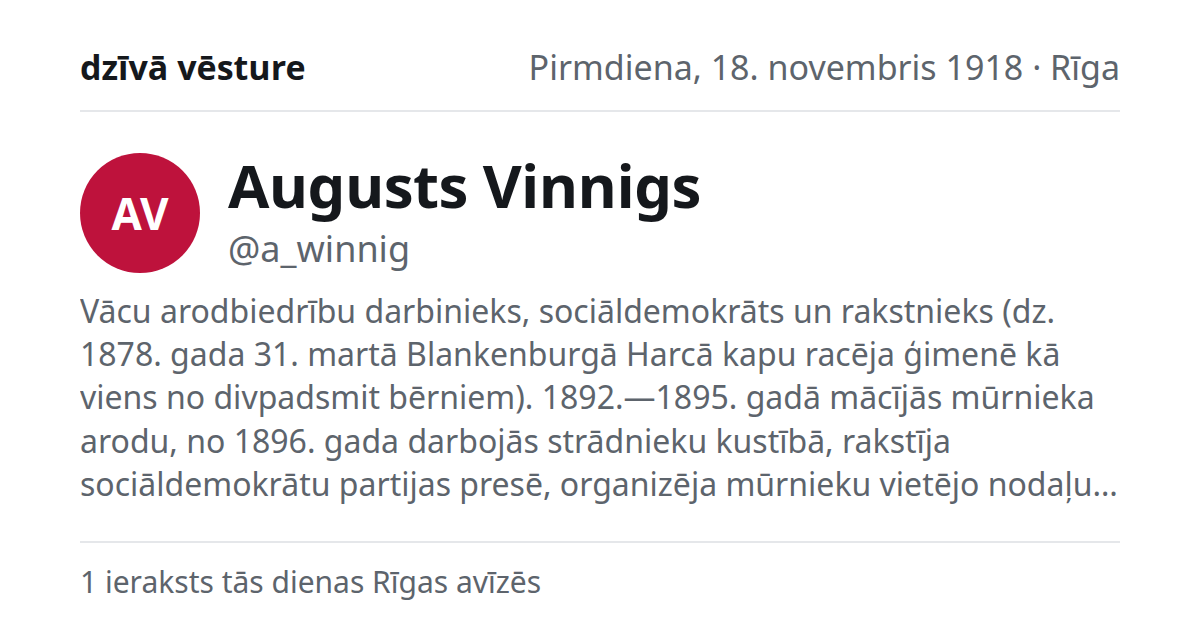
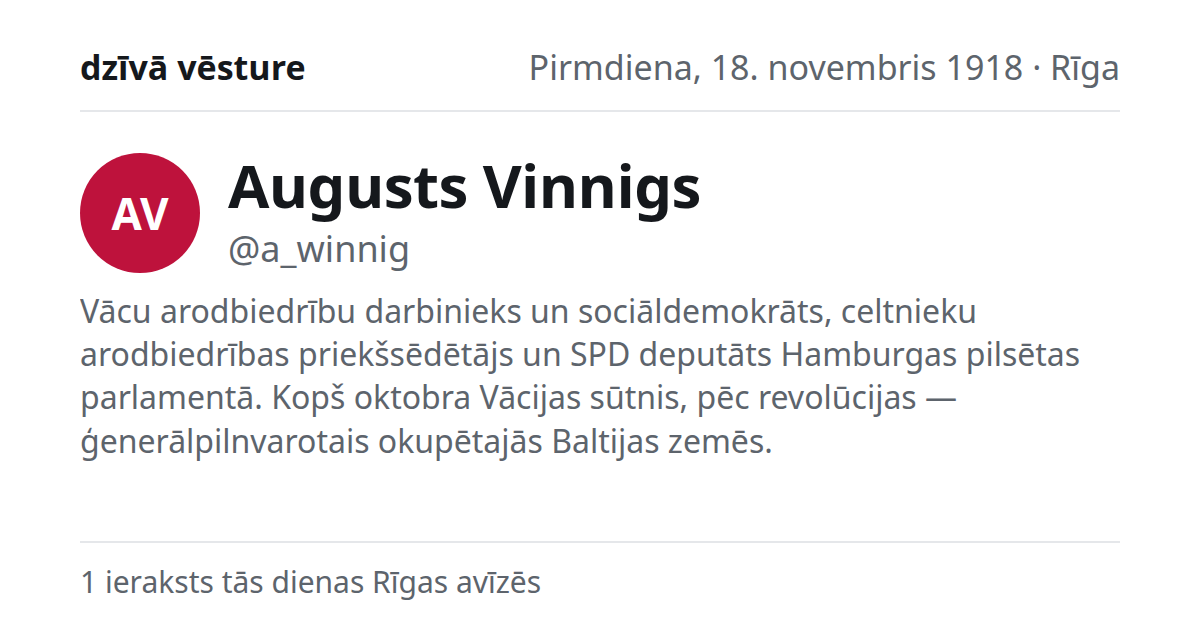
profiles: render the short bio, not the 750-char identity record

Changed region(s): [[0.0617, 0.5429, 0.925, 0.7238], [0.0617, 0.754, 0.925, 0.8143], [0.4317, 0.4524, 0.8942, 0.5127]]

diff --git a/tests/run.ts b/tests/run.ts
@@ -157,14 +157,20 @@ check('mentionsOf: only the posts that name the handle, in seq order', named.map
 // | identity: 5                                       | throws "string or null"       |
 // | identity: {}  (hostile: object where text belongs)| throws "string or null"       |
 const throws = (fn: () => unknown, msg: string) => { try { fn(); return false; } catch (e) { return String(e).includes(msg); } };
-const good = readIdentities({ accounts: [{ handle: '@a', identity: 'X' }, { handle: '@b', identity: null }] }, ['@a', '@b']);
+const good = readIdentities({ accounts: [{ handle: '@a', identity: 'X', bio: 'b' }, { handle: '@b', identity: null, bio: null }] }, ['@a', '@b']);
 check('readIdentities: the array shape reads to a map of every handle', good.size === 2 && good.get('@a')!.identity === 'X' && good.get('@b')!.identity === null);
 check('readIdentities: a handle-keyed map fails loudly', throws(() => readIdentities({ '@a': { identity: 'X' } }, ['@a']), 'an array, not a map'));
-check('readIdentities: a handle missing from the file fails loudly', throws(() => readIdentities({ accounts: [{ handle: '@a', identity: 'X' }] }, ['@a', '@b']), 'no entry for @b'));
-check('readIdentities: a handle unknown to the data fails loudly', throws(() => readIdentities({ accounts: [{ handle: '@a', identity: 'X' }, { handle: '@zz', identity: 'X' }] }, ['@a']), 'not an account'));
-check('readIdentities: a duplicate handle fails loudly', throws(() => readIdentities({ accounts: [{ handle: '@a', identity: 'X' }, { handle: '@a', identity: 'Y' }] }, ['@a']), 'appears twice'));
-check('readIdentities: a numeric identity fails loudly', throws(() => readIdentities({ accounts: [{ handle: '@a', identity: 5 }] }, ['@a']), 'string or null'));
-check('readIdentities: an object identity fails loudly', throws(() => readIdentities({ accounts: [{ handle: '@a', identity: {} }] }, ['@a']), 'string or null'));
+check('readIdentities: a handle missing from the file fails loudly', throws(() => readIdentities({ accounts: [{ handle: '@a', identity: 'X', bio: 'b' }] }, ['@a', '@b']), 'no entry for @b'));
+check('readIdentities: a handle unknown to the data fails loudly', throws(() => readIdentities({ accounts: [{ handle: '@a', identity: 'X', bio: 'b' }, { handle: '@zz', identity: 'X', bio: 'b' }] }, ['@a']), 'not an account'));
+check('readIdentities: a duplicate handle fails loudly', throws(() => readIdentities({ accounts: [{ handle: '@a', identity: 'X', bio: 'b' }, { handle: '@a', identity: 'Y', bio: 'b' }] }, ['@a']), 'appears twice'));
+// | bio: 5                                            | throws "string or null"       |
+// | bio set, identity null                            | throws "bio without identity" |
+// | bio of 281 chars                                  | throws "over 280"             |
+check('readIdentities: a numeric bio fails loudly', throws(() => readIdentities({ accounts: [{ handle: '@a', identity: 'X', bio: 5 }] }, ['@a']), 'string or null'));
+check('readIdentities: a bio without an identity fails loudly', throws(() => readIdentities({ accounts: [{ handle: '@a', identity: null, bio: 'b' }] }, ['@a']), 'bio without identity'));
+check('readIdentities: an over-long bio fails loudly', throws(() => readIdentities({ accounts: [{ handle: '@a', identity: 'X', bio: 'x'.repeat(281) }] }, ['@a']), 'over 280'));
+check('readIdentities: a numeric identity fails loudly', throws(() => readIdentities({ accounts: [{ handle: '@a', identity: 5, bio: null }] }, ['@a']), 'string or null'));
+check('readIdentities: an object identity fails loudly', throws(() => readIdentities({ accounts: [{ handle: '@a', identity: {}, bio: null }] }, ['@a']), 'string or null'));
 
 // --- descriptionLines: the identity alone; null is two different things ------
 // | handle           | identity      | expected       |
@@ -172,11 +178,13 @@ check('readIdentities: an object identity fails loudly', throws(() => readIdenti
 // | @f_brodermanis   | null          | []             |
 // | @zemes_sargi     | null          | [what, bio]    |
 // | @x (any other)   | null          | []             |
+// | bio set          | [bio]  — the long `identity` never reaches the page |
 const acc: Account = { name: 'X', kind: 'org', what: 'W', bio: 'B' };
-check('descriptionLines: the identity alone, never what/bio beside it', JSON.stringify(descriptionLines(acc, { handle: '@x', identity: 'Laikraksts' })) === '["Laikraksts"]');
-check('descriptionLines: @f_brodermanis null → no description at all', descriptionLines(acc, { handle: '@f_brodermanis', identity: null }).length === 0);
-check('descriptionLines: @zemes_sargi null → the paper-sourced what and bio stand', JSON.stringify(descriptionLines(acc, { handle: '@zemes_sargi', identity: null })) === '["W","B"]');
-check('descriptionLines: any other null → nothing', descriptionLines(acc, { handle: '@x', identity: null }).length === 0);
+check('descriptionLines: the bio alone — never the long identity, never what/bio beside it',
+  JSON.stringify(descriptionLines(acc, { handle: '@x', identity: 'A 700-character encyclopedia entry…', bio: 'Laikraksts' })) === '["Laikraksts"]');
+check('descriptionLines: @f_brodermanis null → no description at all', descriptionLines(acc, { handle: '@f_brodermanis', identity: null, bio: null }).length === 0);
+check('descriptionLines: @zemes_sargi null → the paper-sourced what and bio stand', JSON.stringify(descriptionLines(acc, { handle: '@zemes_sargi', identity: null, bio: null })) === '["W","B"]');
+check('descriptionLines: any other null → nothing', descriptionLines(acc, { handle: '@x', identity: null, bio: null }).length === 0);
 
 // --- lead: the first sentence for a preview, no full stop ---------------------
 // | input                                                   | expected                               |

diff --git a/src/lib/feed.ts b/src/lib/feed.ts
@@ -226,7 +226,7 @@ export const viaText = (via: string) => via.replace(/^Atstāstīts: /, '');
 // handle or a duplicate throws, so the build fails instead of a profile quietly
 // losing its bio because a key moved. Everything else in the file (identity_en,
 // sources, note, confidence) is for us, never for the page.
-export type Identity = { handle: string; identity: string | null };
+export type Identity = { handle: string; identity: string | null; bio: string | null };
 export function readIdentities(raw: unknown, handles: string[]): Map<string, Identity> {
   const file = 'rereading/identities.json';
   if (typeof raw !== 'object' || raw === null || !Array.isArray((raw as { accounts?: unknown }).accounts)) {
@@ -237,9 +237,12 @@ export function readIdentities(raw: unknown, handles: string[]): Map<string, Ide
     const entry = e as Partial<Identity> | null;
     if (!entry || typeof entry.handle !== 'string') throw new Error(`${file}: an account entry has no string handle`);
     if (!(typeof entry.identity === 'string' || entry.identity === null)) throw new Error(`${file}: ${entry.handle}: identity must be a string or null`);
+    if (!(typeof entry.bio === 'string' || entry.bio === null)) throw new Error(`${file}: ${entry.handle}: bio must be a string or null`);
+    if (entry.identity === null && entry.bio !== null) throw new Error(`${file}: ${entry.handle}: bio without identity`);
+    if (typeof entry.bio === 'string' && entry.bio.length > 280) throw new Error(`${file}: ${entry.handle}: bio is ${entry.bio.length} chars, over 280`);
     if (!handles.includes(entry.handle)) throw new Error(`${file}: ${entry.handle} is not an account in the data`);
     if (out.has(entry.handle)) throw new Error(`${file}: ${entry.handle} appears twice`);
-    out.set(entry.handle, { handle: entry.handle, identity: entry.identity });
+    out.set(entry.handle, { handle: entry.handle, identity: entry.identity, bio: entry.bio ?? null });
   }
   for (const h of handles) if (!out.has(h)) throw new Error(`${file}: no entry for ${h}`);
   return out;
@@ -253,7 +256,7 @@ export function readIdentities(raw: unknown, handles: string[]): Map<string, Ide
 // nothing exists anywhere, and no description is the correct outcome.
 export const PAPER_ON_NULL = new Set(['@zemes_sargi']);
 export function descriptionLines(a: Account, ident: Identity): string[] {
-  if (ident.identity) return [ident.identity];
+  if (ident.bio) return [ident.bio];
   return PAPER_ON_NULL.has(ident.handle) ? [a.what, a.bio] : [];
 }
 

diff --git a/tests/profiles.ts b/tests/profiles.ts
@@ -75,13 +75,15 @@ for (const h of postless) {
 // --- P11: the description is the researched identity, or deliberately nothing --
 // | handle          | identity  | expected on the page                                  |
 // | 28 accounts     | string    | exactly one <p class="bio"> holding it, no <p class="what"> |
+// | 28 accounts     | bio set   | one <p class="bio"> equal to `bio` — the ~750-char      |
+//                                   `identity` is the record, never the page             |
 // | @zemes_sargi    | null      | the paper-sourced what + bio                          |
 // | @f_brodermanis  | null      | no description paragraph at all                       |
 const identities = readIdentities(JSON.parse(readFileSync(new URL('../rereading/identities.json', import.meta.url), 'utf8')), handles);
-const described = handles.filter((h) => identities.get(h)!.identity);
+const described = handles.filter((h) => identities.get(h)!.bio);
 const unescape = (s: string) => s.replace(/&#39;/g, "'").replace(/&quot;/g, '"').replace(/&lt;/g, '<').replace(/&gt;/g, '>').replace(/&amp;/g, '&');
 const paras = (h: string) => [...html(page(h)).matchAll(/<p class="(what|bio)">([^<]*)<\/p>/g)].map((m) => [m[1], unescape(m[2])]);
-check('P11: 28 profiles render their identity as the one description paragraph', described.length === 28 && described.every((h) => JSON.stringify(paras(h)) === JSON.stringify([['bio', identities.get(h)!.identity]])), described.filter((h) => JSON.stringify(paras(h)) !== JSON.stringify([['bio', identities.get(h)!.identity]])).join());
+check('P11: 28 profiles render their BIO as the one description paragraph (never the long identity)', described.length === 28 && described.every((h) => JSON.stringify(paras(h)) === JSON.stringify([['bio', identities.get(h)!.bio]])), described.filter((h) => JSON.stringify(paras(h)) !== JSON.stringify([['bio', identities.get(h)!.bio]])).join());
 check('P11: @zemes_sargi keeps the paper-sourced what and bio', JSON.stringify(paras('@zemes_sargi')) === JSON.stringify(descriptionLines(accounts['@zemes_sargi'], identities.get('@zemes_sargi')!).map((l, i) => [i === 0 ? 'what' : 'bio', l])));
 check('P11: @f_brodermanis renders no description at all', paras('@f_brodermanis').length === 0 && html(page('@f_brodermanis')).includes('<div class="handle">@f_brodermanis</div>'));
 
